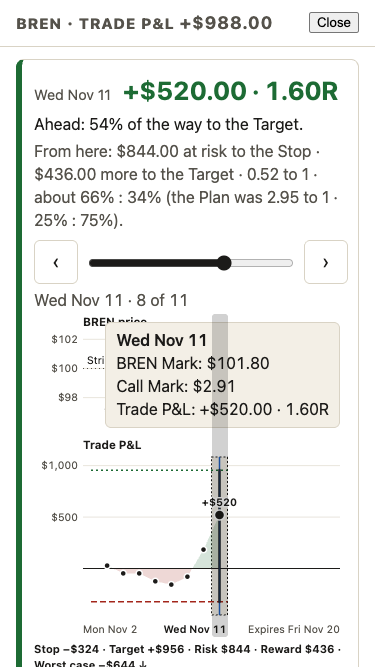
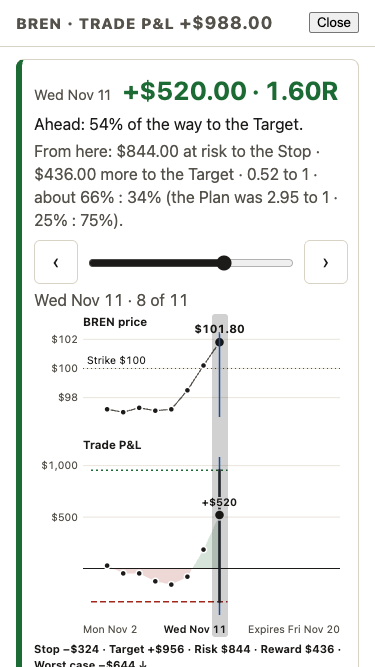
fix(replay): T9AR.23-S5 a touch or pen tap on a session leaves no hover box

Changed region(s): [[0.264, 0.4798, 0.9093, 0.6597]]

diff --git a/src/ui/cockpit/replay/corridor.tsx b/src/ui/cockpit/replay/corridor.tsx
@@ -19,6 +19,7 @@ function SessionHits({ props, width }: { props: ReplayPlotProps; width: number }
   const time = timeAxis(width, props.axis.slots);
   // Pointer and focus each hold a session; the pointer's wins while it is over one, then the focused one, else none.
   const held = useRef<{ pointer: number | null; focus: number | null }>({ pointer: null, focus: null });
+  const tapped = useRef(false);
   const hold = (source: 'pointer' | 'focus', i: number | null) => {
     held.current[source] = i;
     props.onHoverSession?.(held.current.pointer ?? held.current.focus);
@@ -33,9 +34,18 @@ function SessionHits({ props, width }: { props: ReplayPlotProps; width: number }
           aria-label={s.dateLabel}
           data-hovered={props.hoverIndex === i ? 'true' : undefined}
           style={{ left: `${(((time.x(s.slot) - time.column / 2) / width) * 100).toFixed(3)}%`, width: `${((time.column / width) * 100).toFixed(3)}%` }}
-          onPointerEnter={() => hold('pointer', i)}
-          onPointerLeave={() => hold('pointer', null)}
-          onFocus={() => hold('focus', i)}
+          // A touch or pen contact is a tap (it selects), not a hover: only a mouse hovers.
+          onPointerEnter={(e) => e.pointerType !== 'touch' && e.pointerType !== 'pen' && hold('pointer', i)}
+          onPointerLeave={(e) => e.pointerType !== 'touch' && e.pointerType !== 'pen' && hold('pointer', null)}
+          onPointerDown={(e) => {
+            tapped.current = e.pointerType === 'touch' || e.pointerType === 'pen';
+          }}
+          // The focus a tap gives the button is not keyboard focus: it shows no hover box.
+          onFocus={() => {
+            const viaTap = tapped.current;
+            tapped.current = false;
+            if (!viaTap) hold('focus', i);
+          }}
           onBlur={() => hold('focus', null)}
           onClick={() => props.onSelectSession?.(i)}
         />

diff --git a/src/ui/cockpit/replay/corridor.test.tsx b/src/ui/cockpit/replay/corridor.test.tsx
@@ -518,6 +518,28 @@ describe('Corridor: the Trade P&L (W40, W41)', () => {
     expect(seen).toEqual([2, null, 3, null]);
   });
 
+  it('should not report hover for a touch or pen pointer, only for a mouse', () => {
+    const seen: (number | null)[] = [];
+    render(<CorridorPlot {...props({ sessions: DAYS.slice(0, 4).map((_, i) => bren(i)), onHoverSession: (i) => seen.push(i) })} />);
+    for (const pointerType of ['touch', 'pen']) {
+      fireEvent.pointerEnter(hits()[1]!, { pointerType });
+      fireEvent.pointerLeave(hits()[1]!, { pointerType });
+    }
+    expect(seen).toEqual([]);
+    fireEvent.pointerEnter(hits()[2]!, { pointerType: 'mouse' });
+    expect(seen).toEqual([2]);
+  });
+
+  it('should not report the focus a tap on a session gives its button, but still report keyboard focus', () => {
+    const seen: (number | null)[] = [];
+    render(<CorridorPlot {...props({ sessions: DAYS.slice(0, 4).map((_, i) => bren(i)), onHoverSession: (i) => seen.push(i) })} />);
+    fireEvent.pointerDown(hits()[1]!, { pointerType: 'touch' });
+    fireEvent.focus(hits()[1]!);
+    expect(seen).toEqual([]);
+    fireEvent.focus(hits()[2]!);
+    expect(seen).toEqual([2]);
+  });
+
   it('should keep a focused session marked when the pointer leaves, and return to it when the pointer leaves another', () => {
     const seen: (number | null)[] = [];
     render(<CorridorPlot {...props({ sessions: DAYS.slice(0, 4).map((_, i) => bren(i)), onHoverSession: (i) => seen.push(i) })} />);

diff --git a/e2e/d9ar/responsive-a11y.spec.ts b/e2e/d9ar/responsive-a11y.spec.ts
@@ -261,7 +261,6 @@ test.describe('B9AR.7 Responsive, touch, accessible and offline', () => {
   test('should leave no hover box after a tap on a session', async ({ profile }) => {
     test.setTimeout(420_000);
     // Product disagrees with the plan (reported to the main session): a tap on a session leaves the hover box and column drawn.
-    test.fail(true, 'a tap leaves the hover box');
     const built = await build(profile, BREN, closeOf('2026-11-16'), 10);
     const trade = built.trade;
     await built.context.close();

diff --git a/evidence/D09AR/tdd-log/T9AR.23-S5.md b/evidence/D09AR/tdd-log/T9AR.23-S5.md
@@ -1,0 +1,9 @@
+# D09AR TDD log, T9AR.23-S5
+
+One file per task (decision 111), so parallel lanes never edit one file. Each row is one single-case run; see `../tdd-log.md` for the rules.
+
+| T9AR.23-S5 | should not report hover for a touch or pen pointer, only for a mouse | red | `npx vitest run src/ui/cockpit/replay/corridor.test.tsx -t "should not report hover for a touch or pen pointer, only for a mouse"` | exit 1; Tests  1 failed, 58 skipped (59) | AssertionError: expected [ 1, null, 1, null ] to deeply equal []  |
+| T9AR.23-S5 | should not report hover for a touch or pen pointer, only for a mouse | green | `npx vitest run src/ui/cockpit/replay/corridor.test.tsx -t "should not report hover for a touch or pen pointer, only for a mouse"` | exit 0; Tests  1 passed, 58 skipped (59) |  |
+| T9AR.23-S5 | should not report the focus a tap on a session gives its button, but still report keyboard focus | red | `npx vitest run src/ui/cockpit/replay/corridor.test.tsx -t "should not report the focus a tap on a session gives its button, but still report keyboard focus"` | exit 1; Tests  1 failed, 59 skipped (60) | AssertionError: expected [ 1 ] to deeply equal []  |
+| T9AR.23-S5 | should not report the focus a tap on a session gives its button, but still report keyboard focus | green | `npx vitest run src/ui/cockpit/replay/corridor.test.tsx -t "should not report the focus a tap on a session gives its button, but still report keyboard focus"` | exit 0; Tests  1 passed, 59 skipped (60) |  |
+| T9AR.23-S5 | refactor | refactor | none needed | no change; both cases and the replay folder green | |
